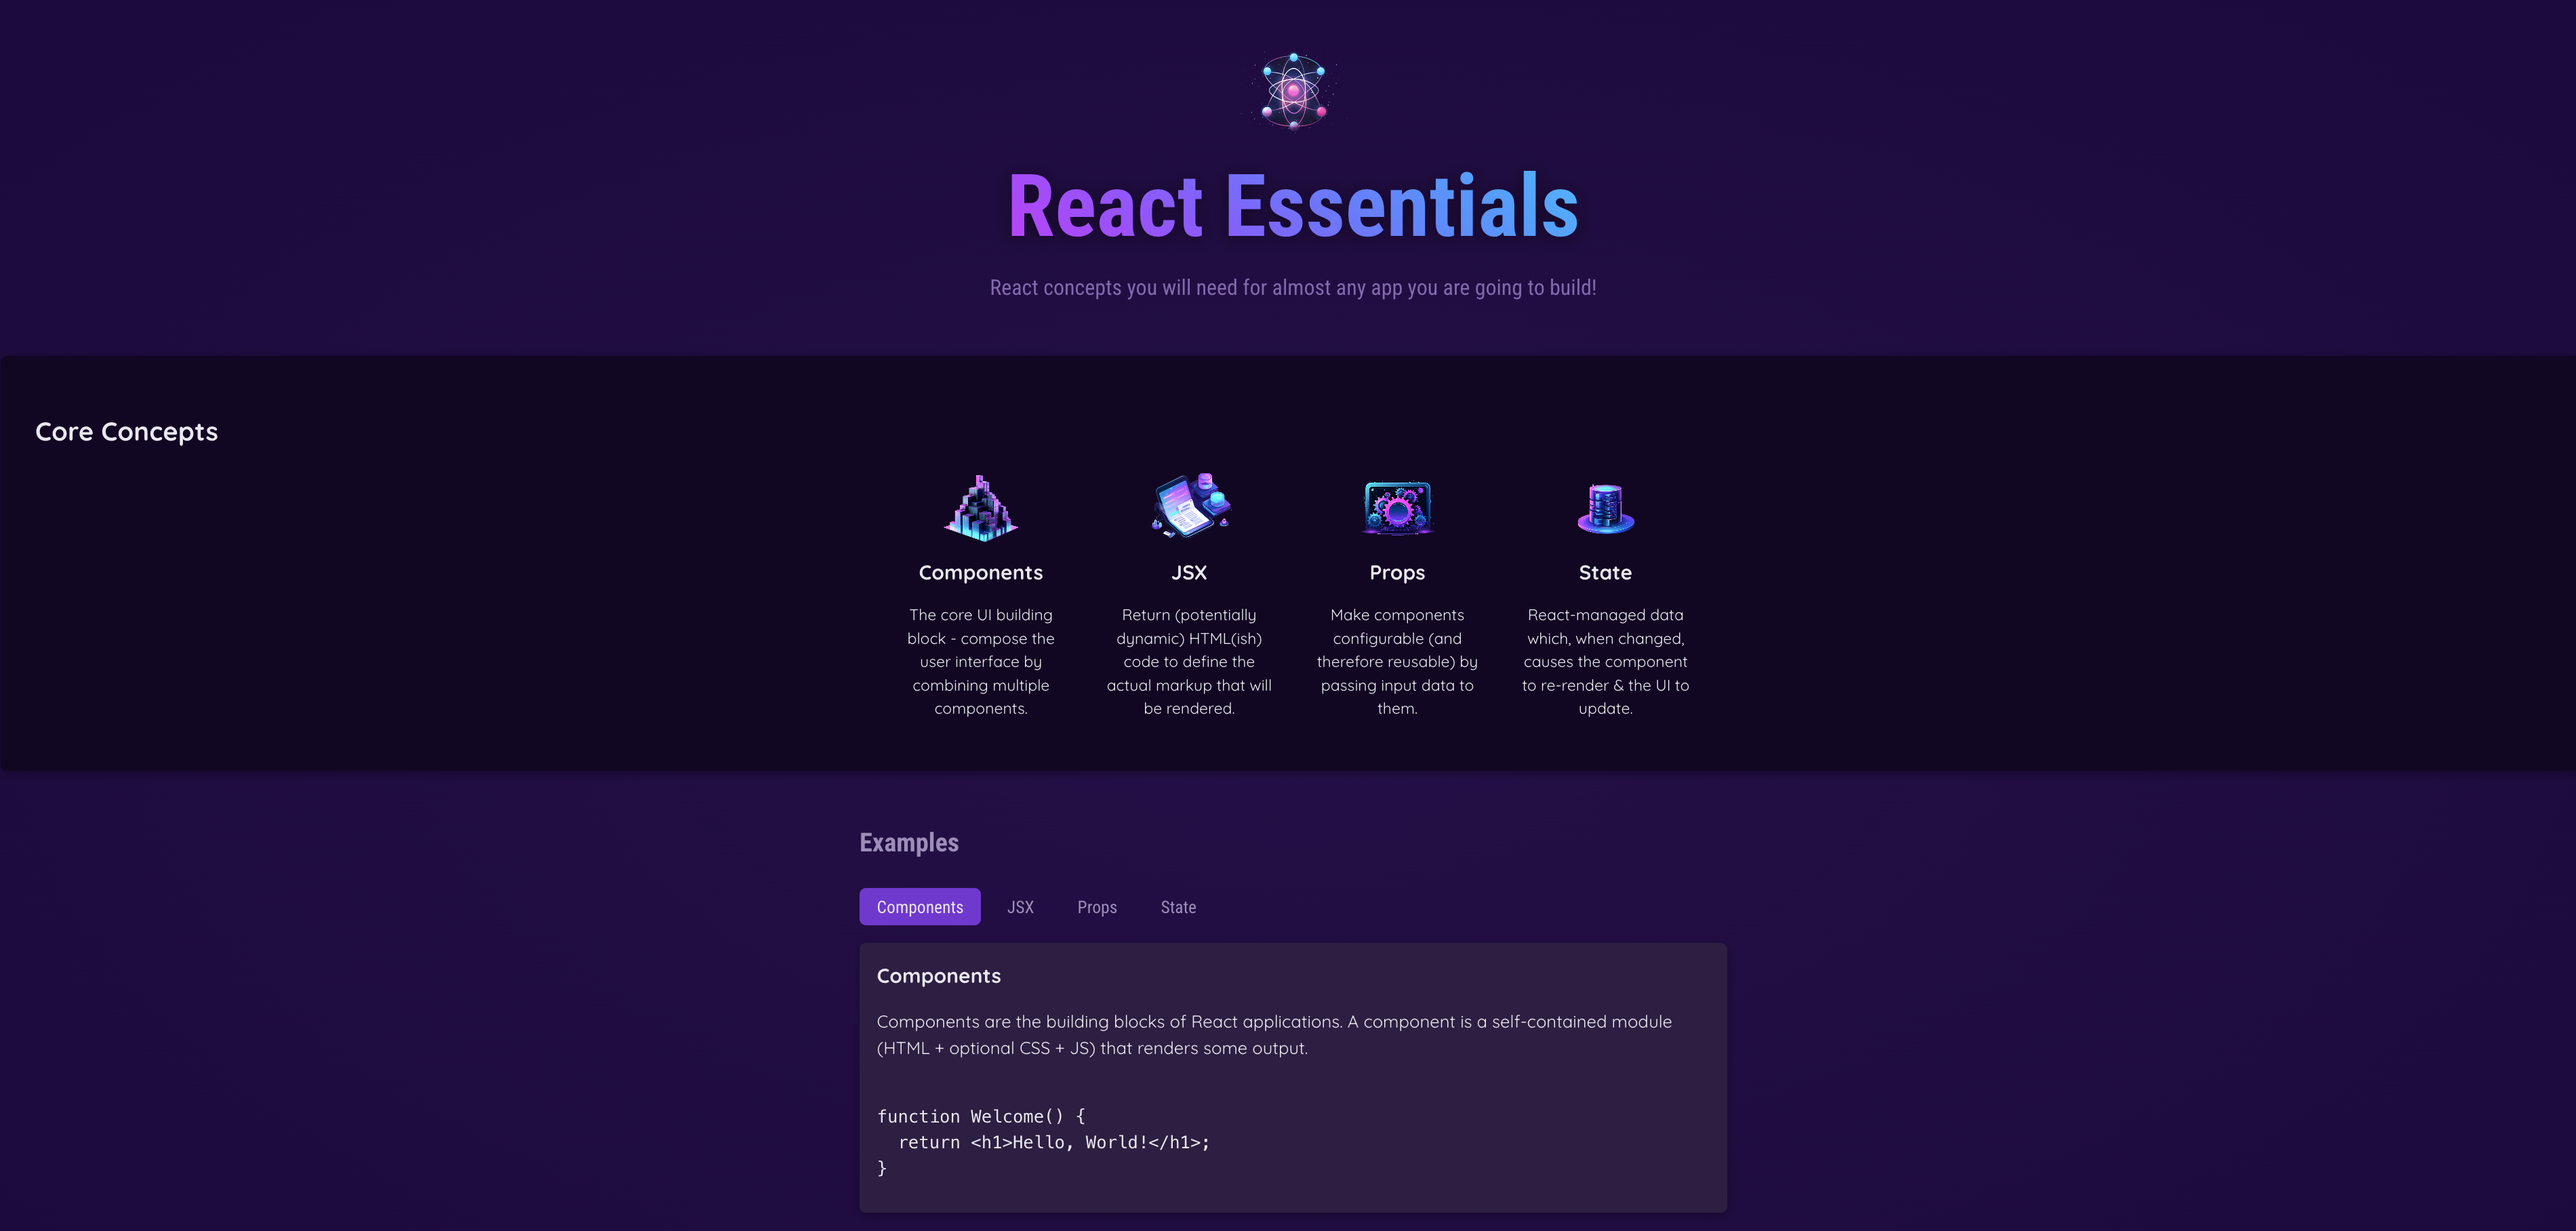
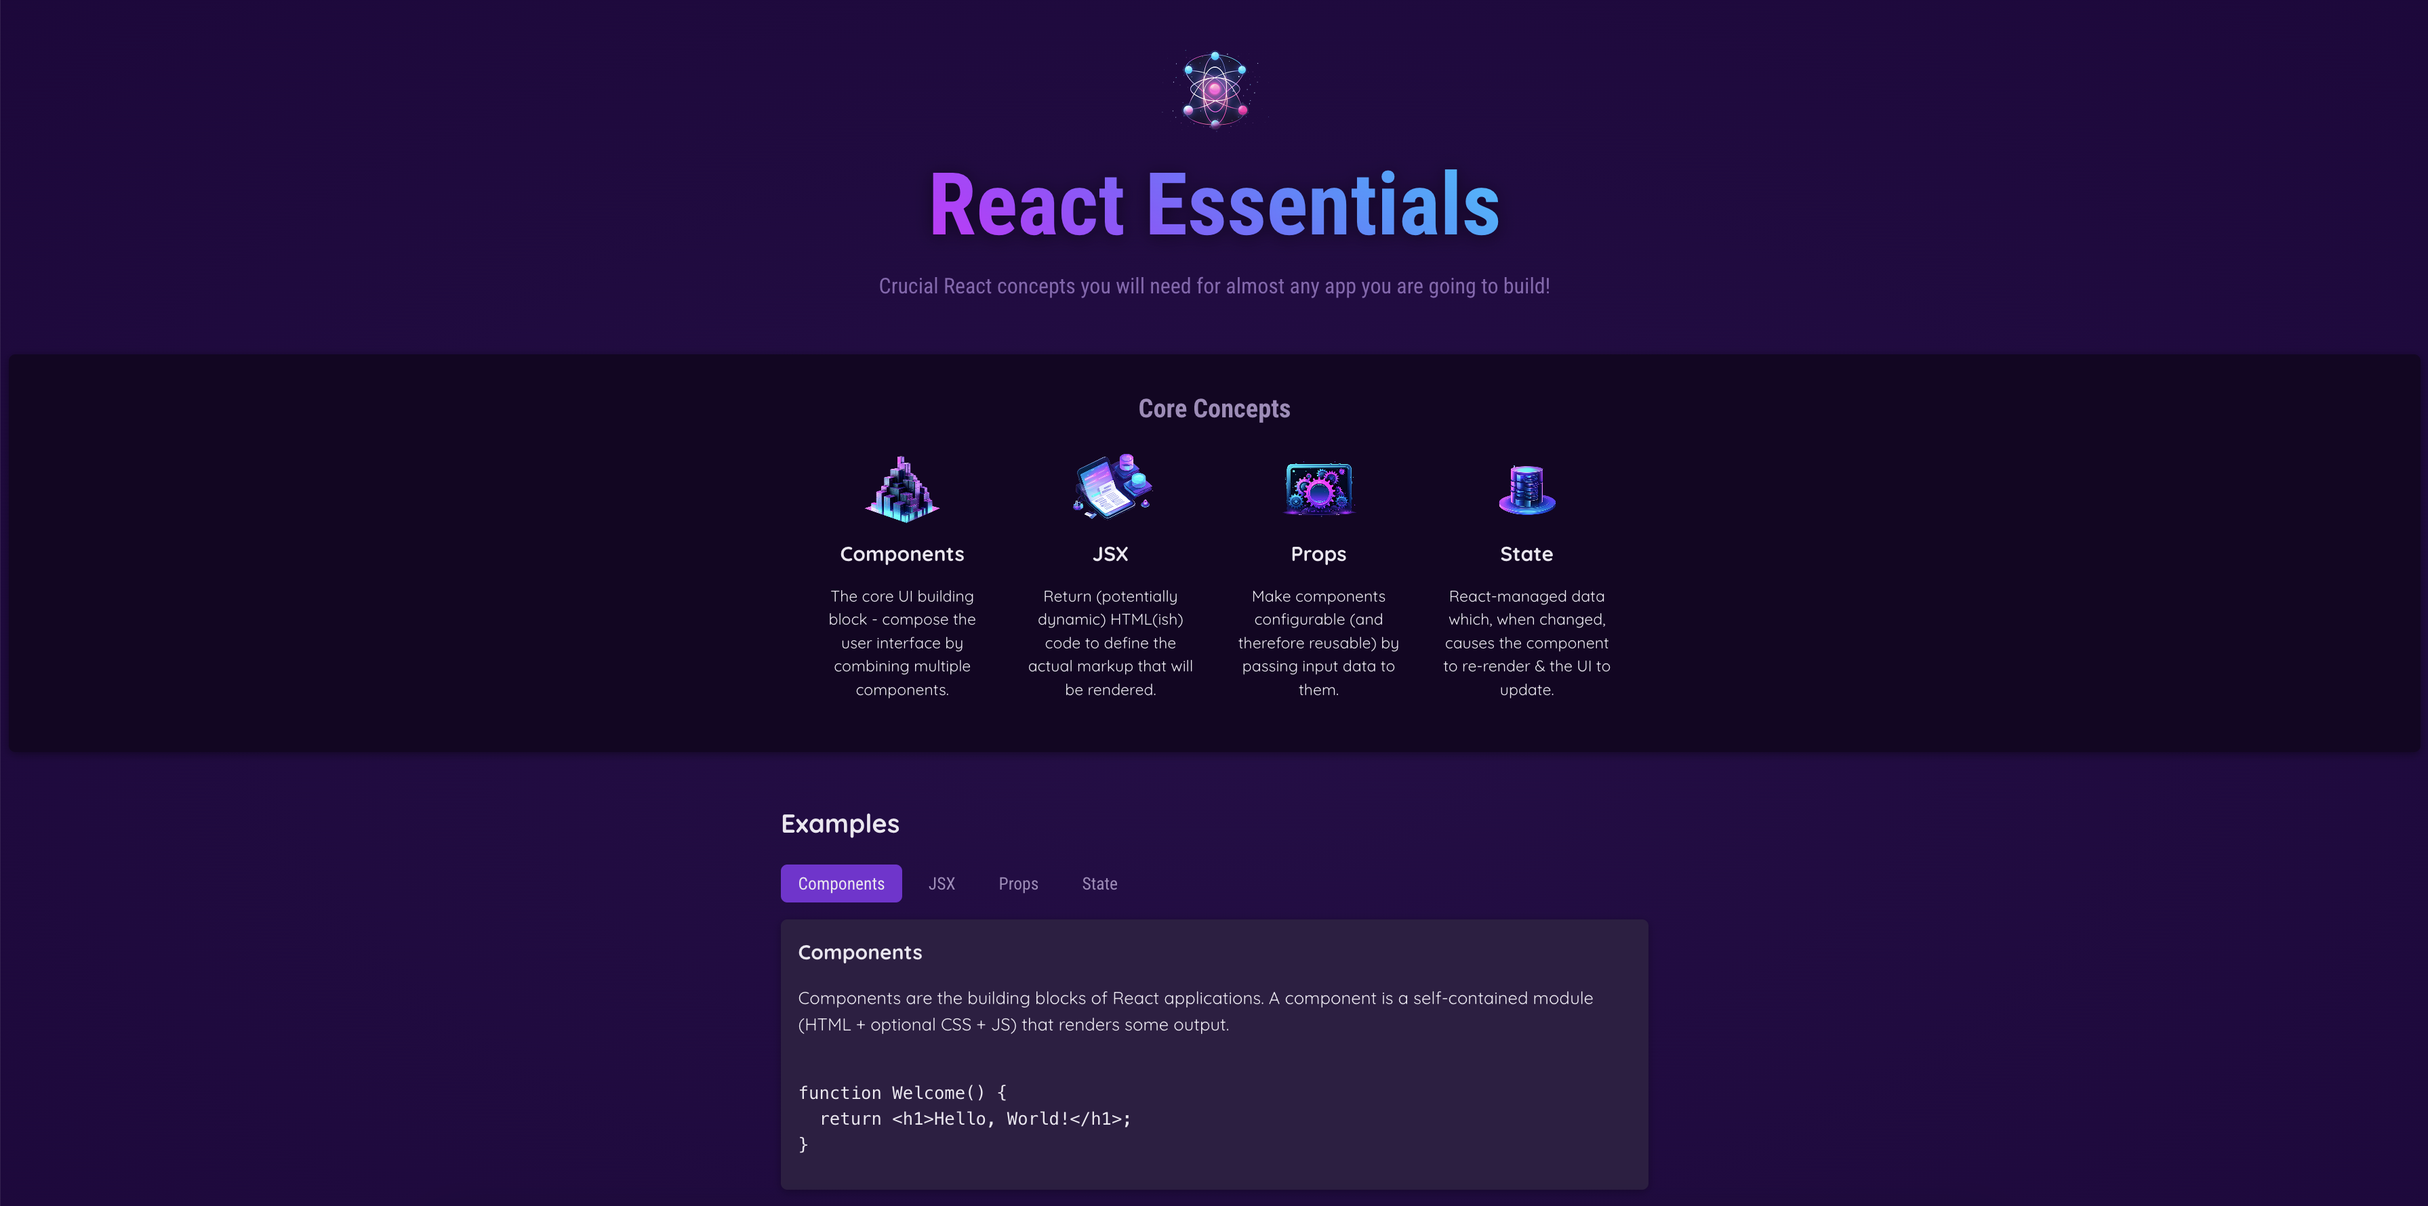
Fix styling

diff --git a/01-react-essentials/src/components/CoreConcepts.jsx b/01-react-essentials/src/components/CoreConcepts.jsx
@@ -3,7 +3,7 @@ import CoreConcept from "./CoreConcept";
 
 export default function CoreConcepts() {
     return (
-        <section id='core-concepts'>
+        <section id="core-concepts">
             <h2>Core Concepts</h2>
             <ul>
                 {CORE_CONCEPTS.map((conceptItem) => (

diff --git a/01-react-essentials/src/index.css b/01-react-essentials/src/index.css
@@ -32,7 +32,7 @@ main {
   box-shadow: 0 2px 8px rgba(0, 0, 0, 0.4);
 }
 
-main h2 {
+#core-concepts h2 {
   text-align: center;
   font-family: "Roboto Condensed", sans-serif;
   margin: 0 0 1.5rem 0;
